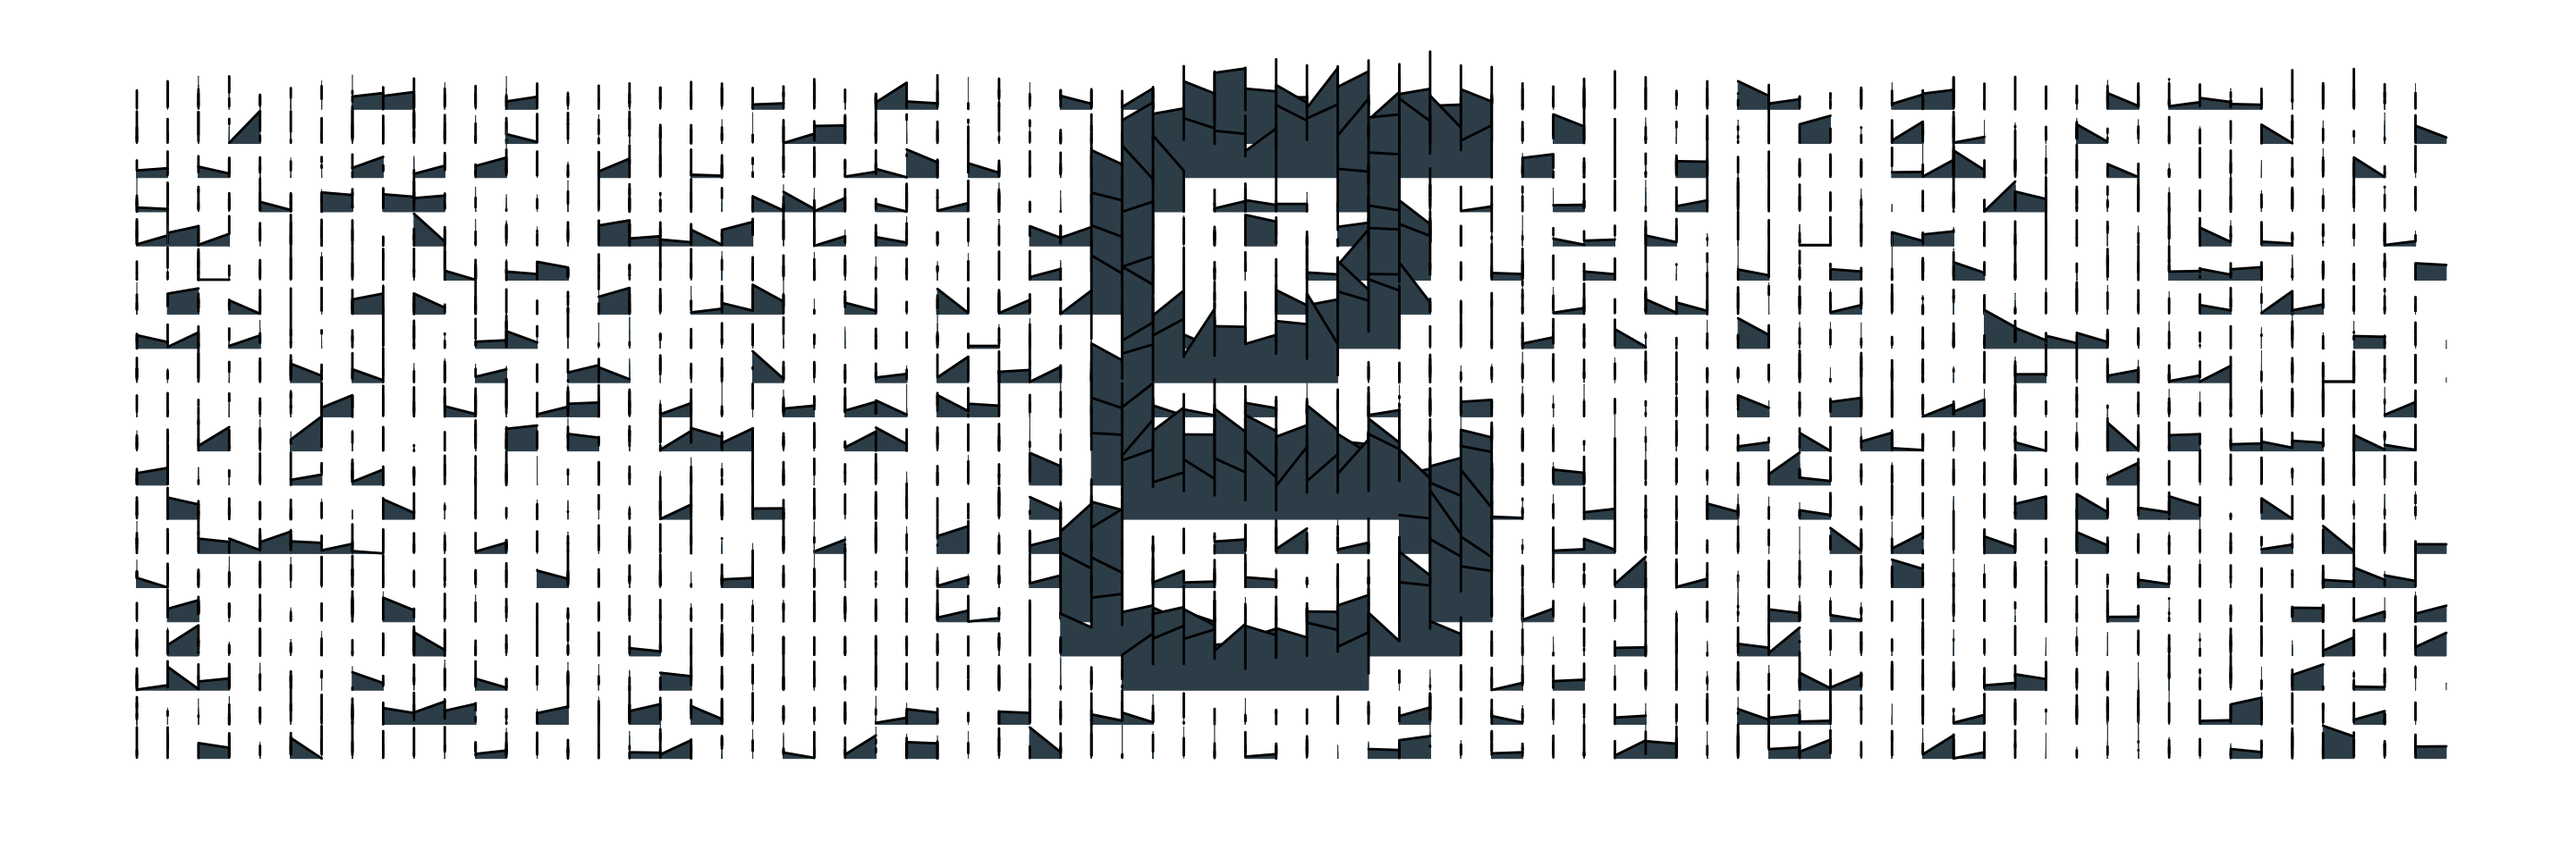
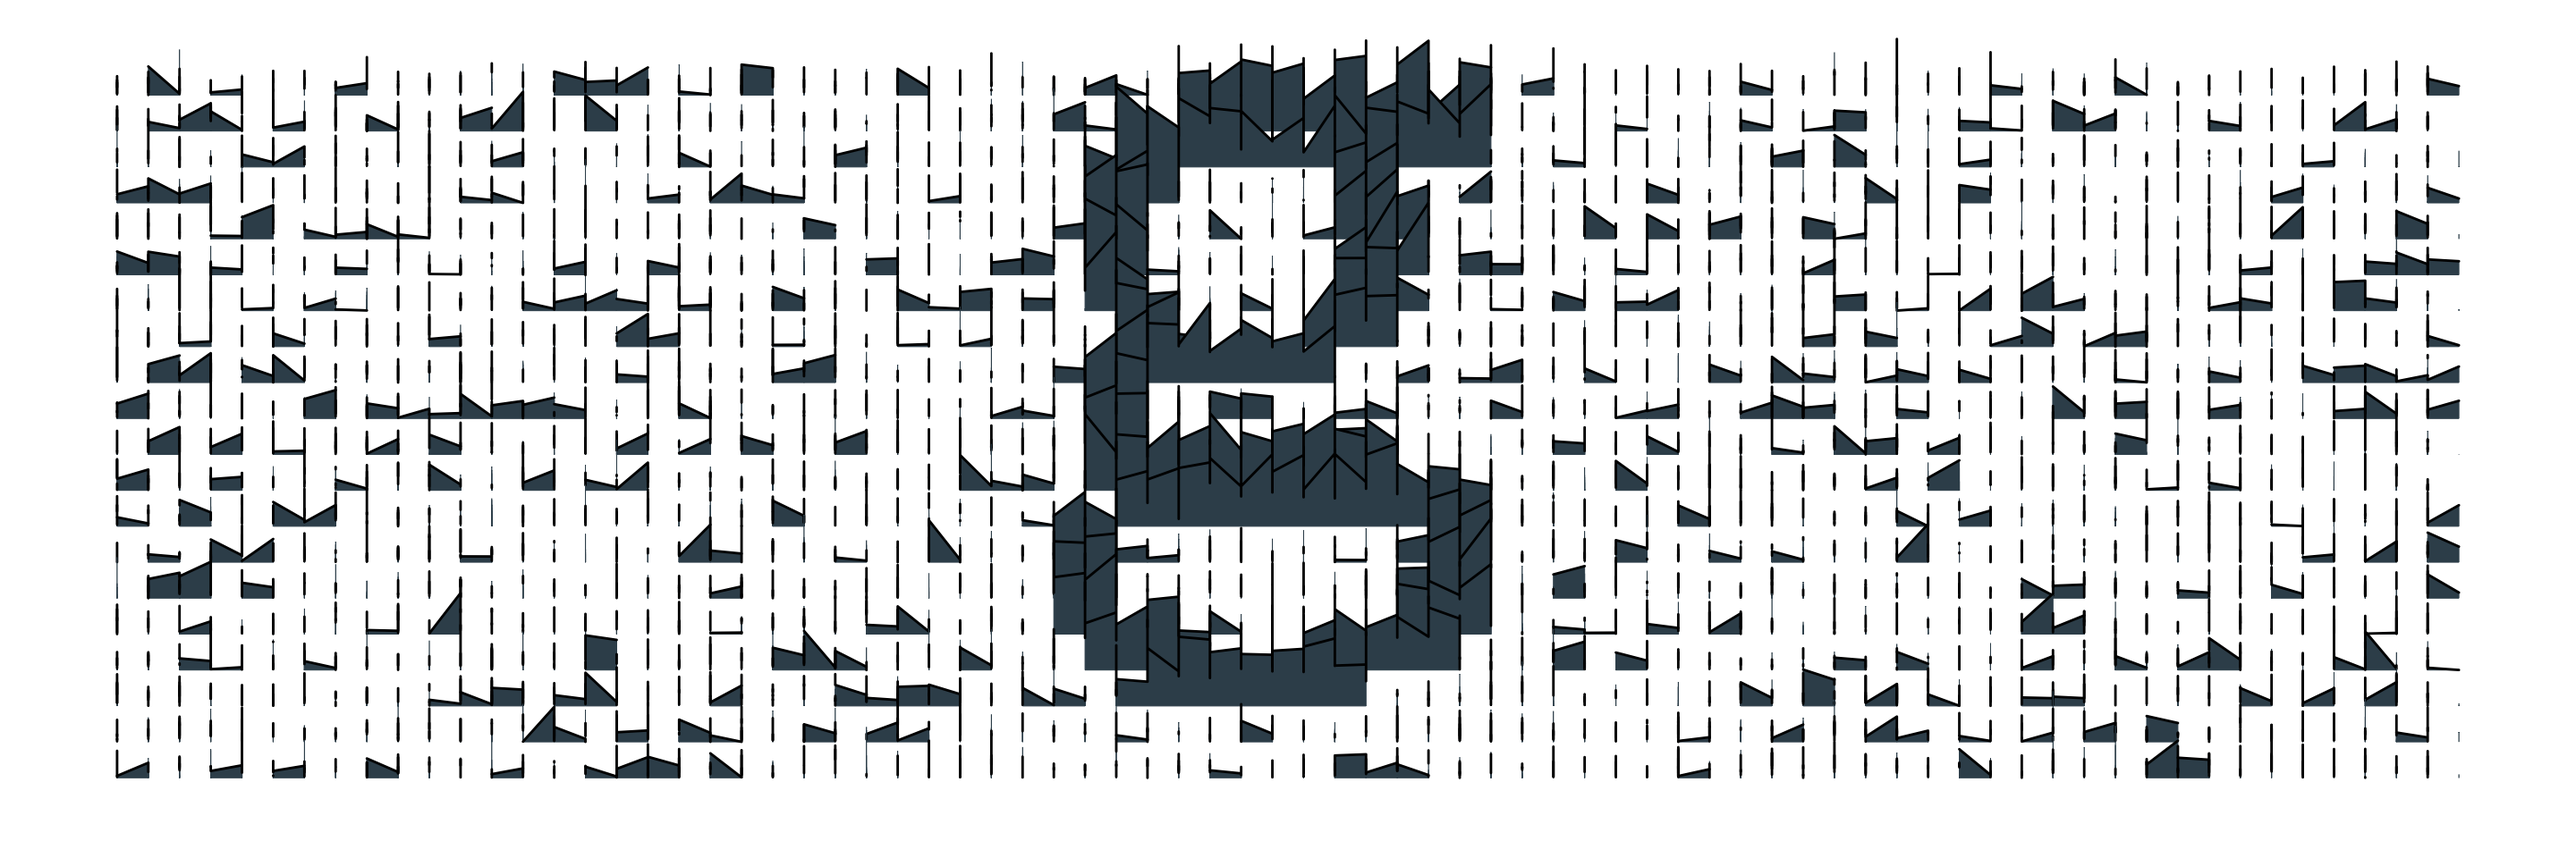
Add deps and remove ggnetwork dependency

Changed region(s): [[0.0312, 0.0625, 0.9688, 0.9062]]

diff --git a/content/blog/2018/2018-03-30-my-ggridges-twitter-header.html b/content/blog/2018/2018-03-30-my-ggridges-twitter-header.html
@@ -19,6 +19,7 @@ library(ggplot2)
 library(ggridges)
 library(dplyr)
 # also: purrr and reshape2
+set.seed(4242)
 
 theme_color &lt;- &quot;#002b36&quot;
 
@@ -60,7 +61,8 @@ readPNG(image_file) %&gt;%
 <div id="accidental-art" class="section level3">
 <h3>Accidental Art</h3>
 <p>While hacking on the above, I ran into this <a href="https://twitter.com/accidental__aRt">@accidental_aRt</a>:</p>
-<pre class="r"><code>readPNG(image_file) %&gt;% 
+<pre class="r"><code>set.seed(4242)
+readPNG(image_file) %&gt;% 
   .[, , 4] %&gt;% 
   reshape2::melt() %&gt;% 
   mutate(value = value + rnorm(length(value), sd = 0.25)) %&gt;% 
@@ -68,6 +70,6 @@ readPNG(image_file) %&gt;%
   mutate(Var2 = floor(Var2/20)*20) %&gt;%
   ggplot(aes(Var2, -Var1, height = value, group = Var1)) + 
   geom_ridgeline_gradient(scale = 40, fill = &quot;#394e5a&quot;) +
-  ggnetwork::theme_blank()</code></pre>
+  theme_void()</code></pre>
 <p><img src="/blog/2018/2018-03-30-my-ggridges-twitter-header_files/figure-html/unnamed-chunk-2-1.png" width="1440" /></p>
 </div>
